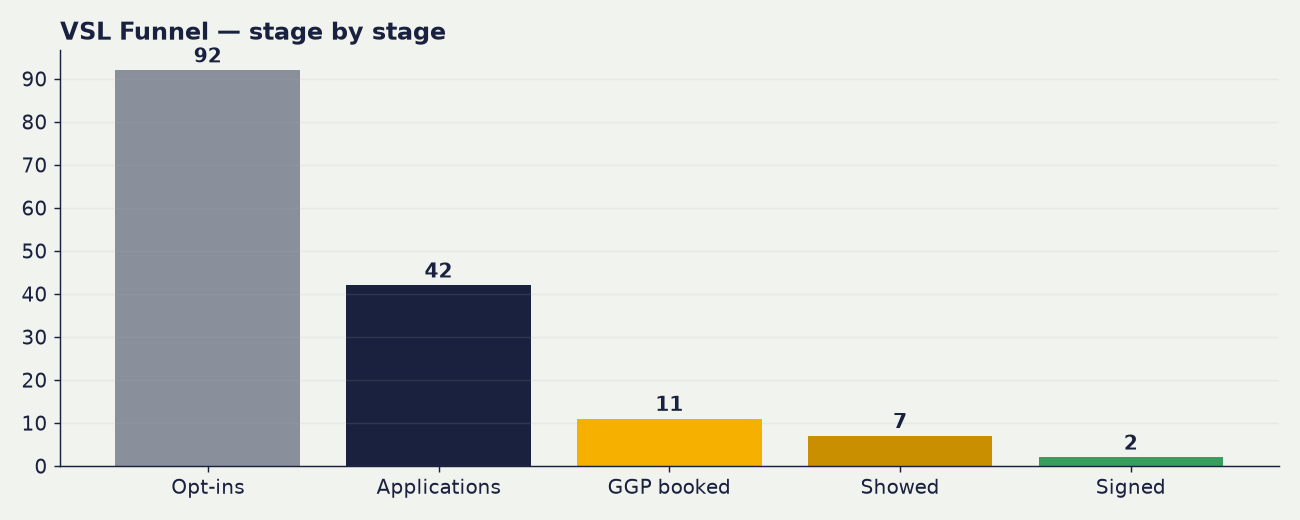
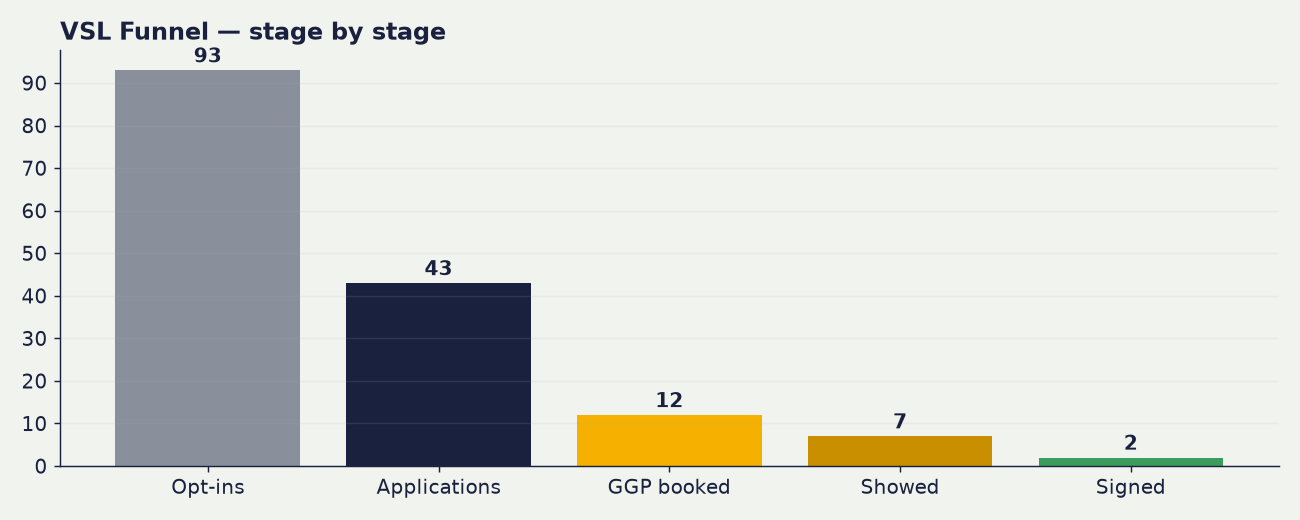
nightly dashboard update 2026-08-15 04:01

diff --git a/content/index.md b/content/index.md
@@ -1,6 +1,6 @@
 # 📈 VSL Funnel Dashboard
 
-_Live from the VSL Applications tracker + Meta. Last updated: 14 Aug 2026, 04:01 BST. Rebuilds nightly._
+_Live from the VSL Applications tracker + Meta. Last updated: 15 Aug 2026, 04:01 BST. Rebuilds nightly._
 
 > Funnel window from 2026-07-07. Attribution = your team's funnel-stage ticks on the Applications tab (the source of truth).
 
@@ -11,9 +11,9 @@ _Live from the VSL Applications tracker + Meta. Last updated: 14 Aug 2026, 04:01
 | Metric | Value |
 |---|---|
 | 💷 Spent | **£2,159.96** |
-| 👀 Opt-ins | **92** |
-| 📝 Applications | **42** |
-| 📞 GGPs booked | **11** |
+| 👀 Opt-ins | **93** |
+| 📝 Applications | **43** |
+| 📞 GGPs booked | **12** |
 | ✅ Showed up | **7** |
 | 🤝 Signed | **2** (Tarik, Zeeshan) |
 
@@ -22,8 +22,8 @@ _Live from the VSL Applications tracker + Meta. Last updated: 14 Aug 2026, 04:01
 | Step | Rate |
 |---|---|
 | Opt-in → Application | 46% |
-| Application → GGP booked | 26% |
-| GGP show rate | 64% |
+| Application → GGP booked | 28% |
+| GGP show rate | 58% |
 | Show → Sign | 29% |
 | Application → Sign | 5% |
 
@@ -31,8 +31,8 @@ _Live from the VSL Applications tracker + Meta. Last updated: 14 Aug 2026, 04:01
 
 | Cost | Value |
 |---|---|
-| Cost per application | £51 |
-| Cost per GGP booked | £196 |
+| Cost per application | £50 |
+| Cost per GGP booked | £180 |
 | Cost per show-up | £309 |
 | **Cost per acquisition (CPA)** | **£1,080** |
 
@@ -57,4 +57,4 @@ _Live from the VSL Applications tracker + Meta. Last updated: 14 Aug 2026, 04:01
 > _Applications + GGP-booked are TRUE daily series (from submission timestamps). Opt-ins have no per-day source in the Opt-ins tab, so opt-ins appear as a total only, not a daily line._
 
 ---
-<!-- Auto-generated by the VSL dashboard nightly pipeline. Do not edit by hand. 14 Aug 2026, 04:01 BST -->
+<!-- Auto-generated by the VSL dashboard nightly pipeline. Do not edit by hand. 15 Aug 2026, 04:01 BST -->
